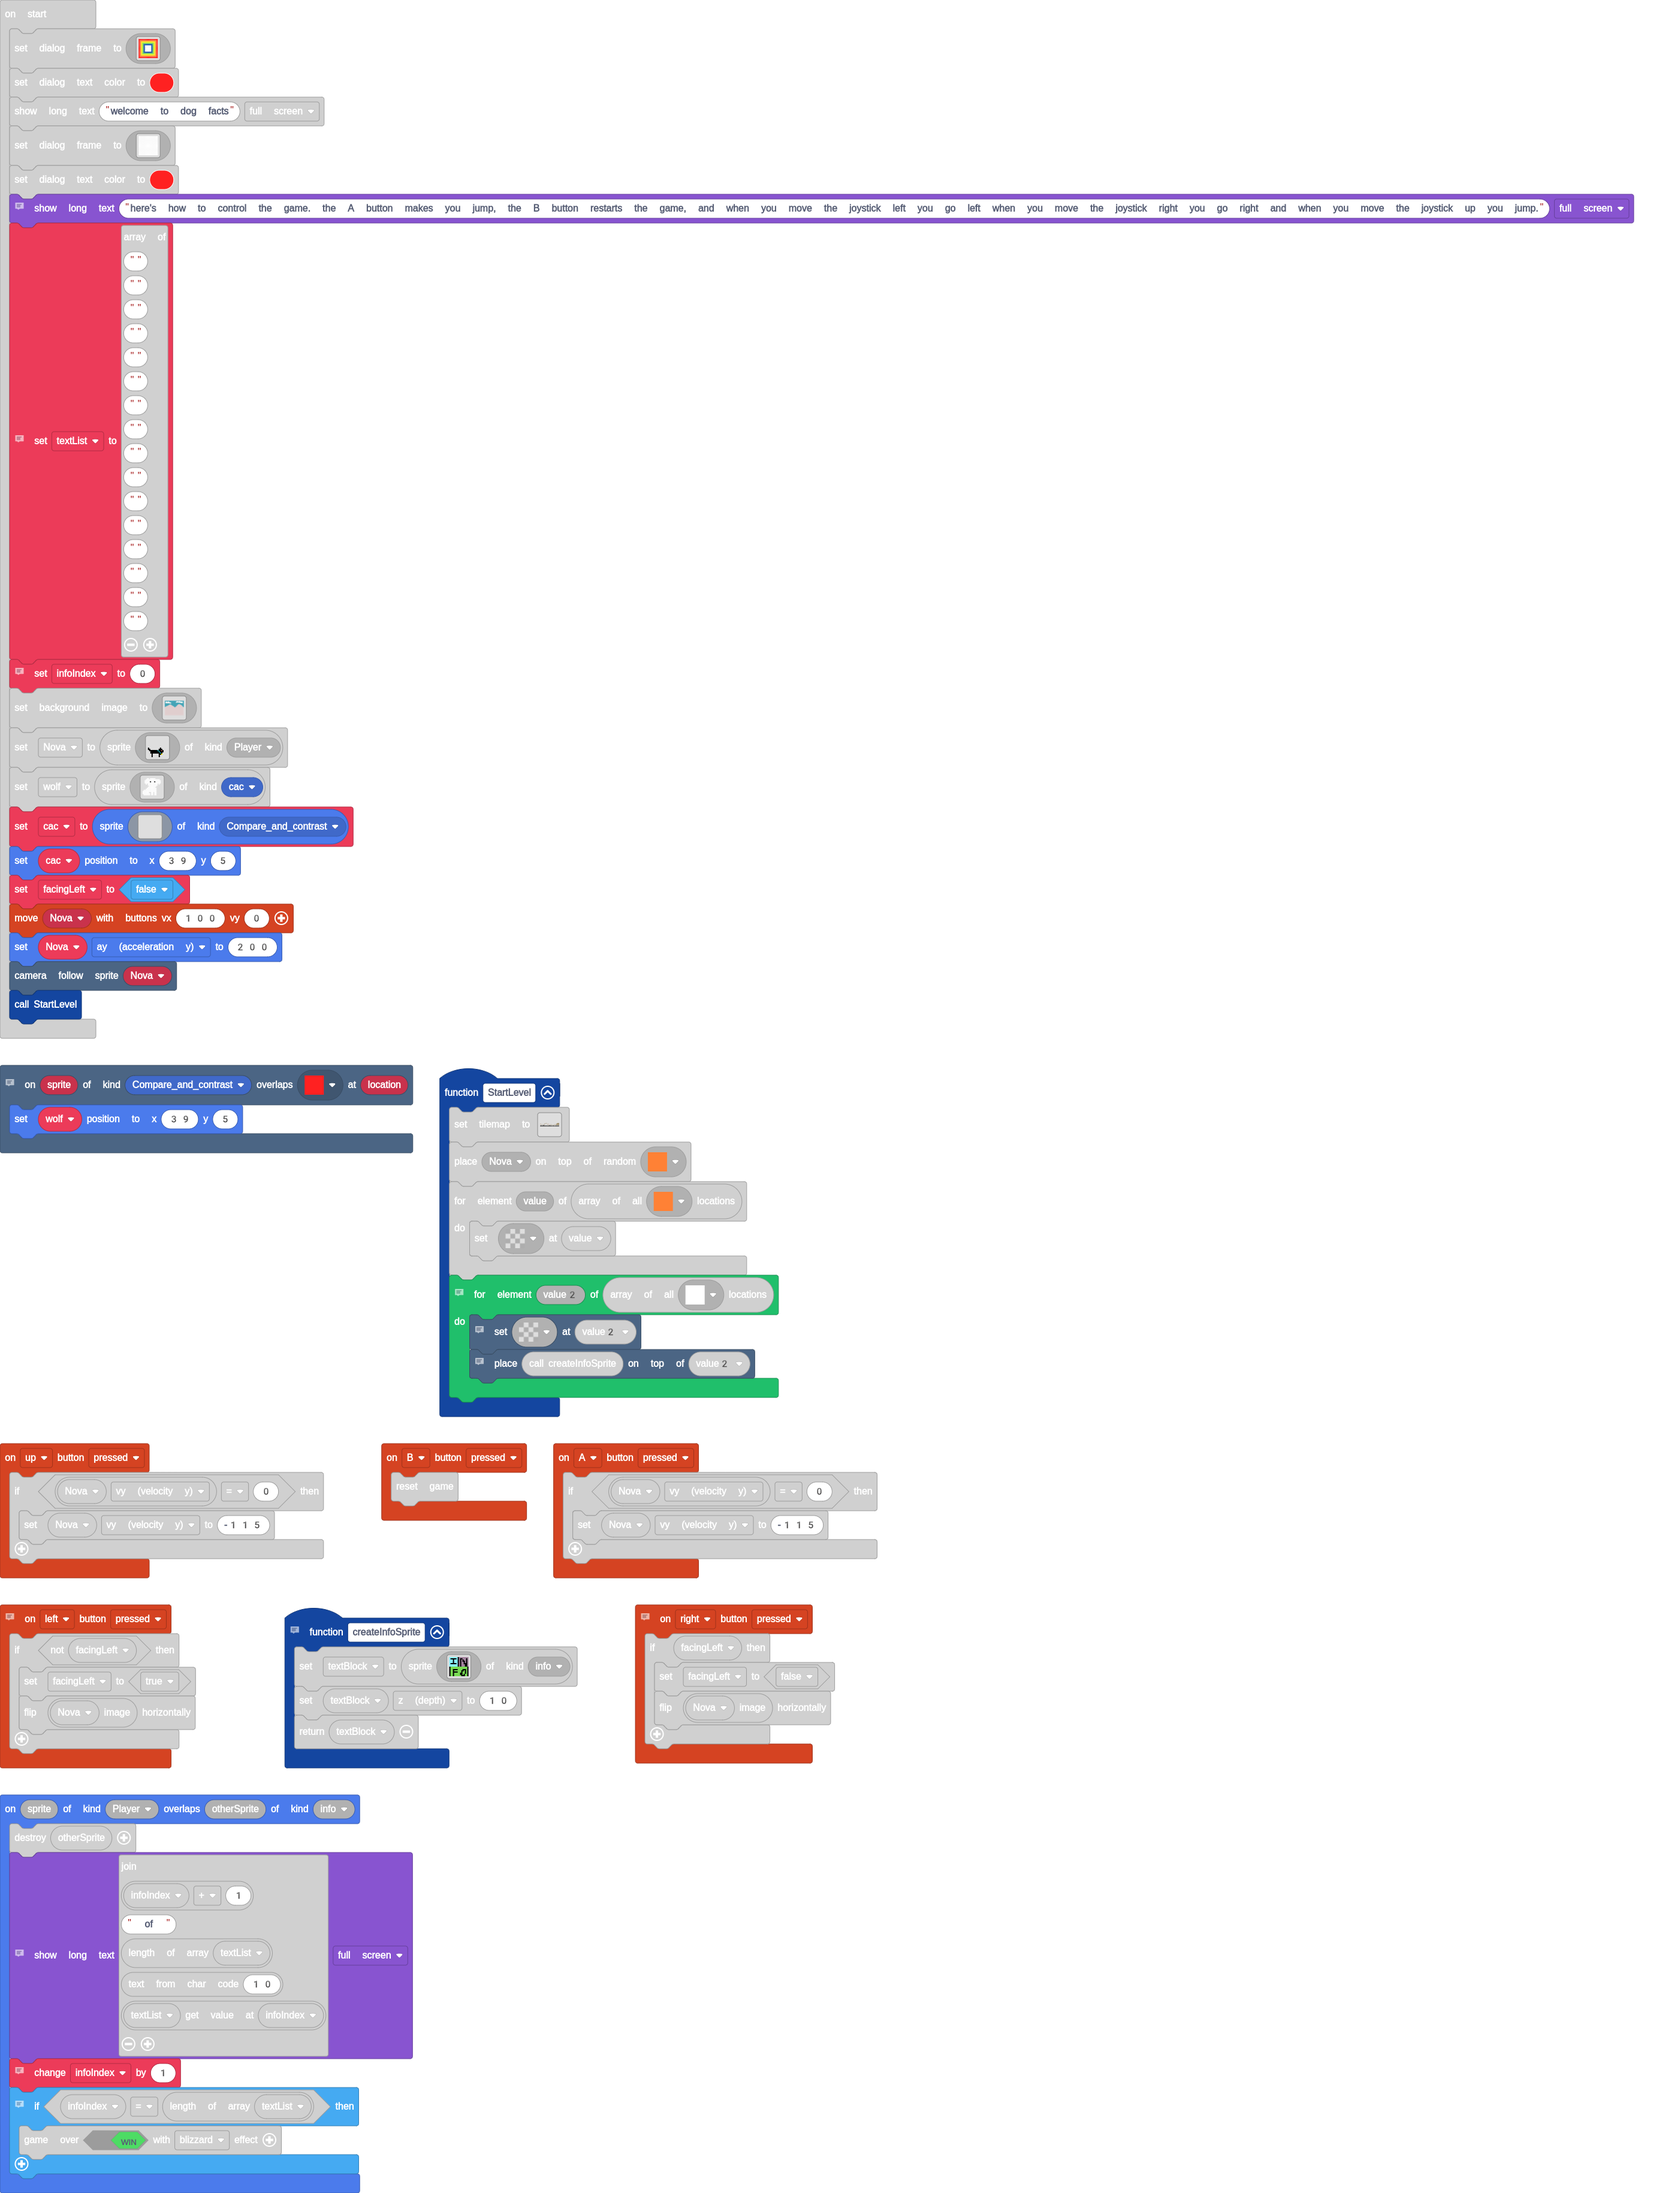
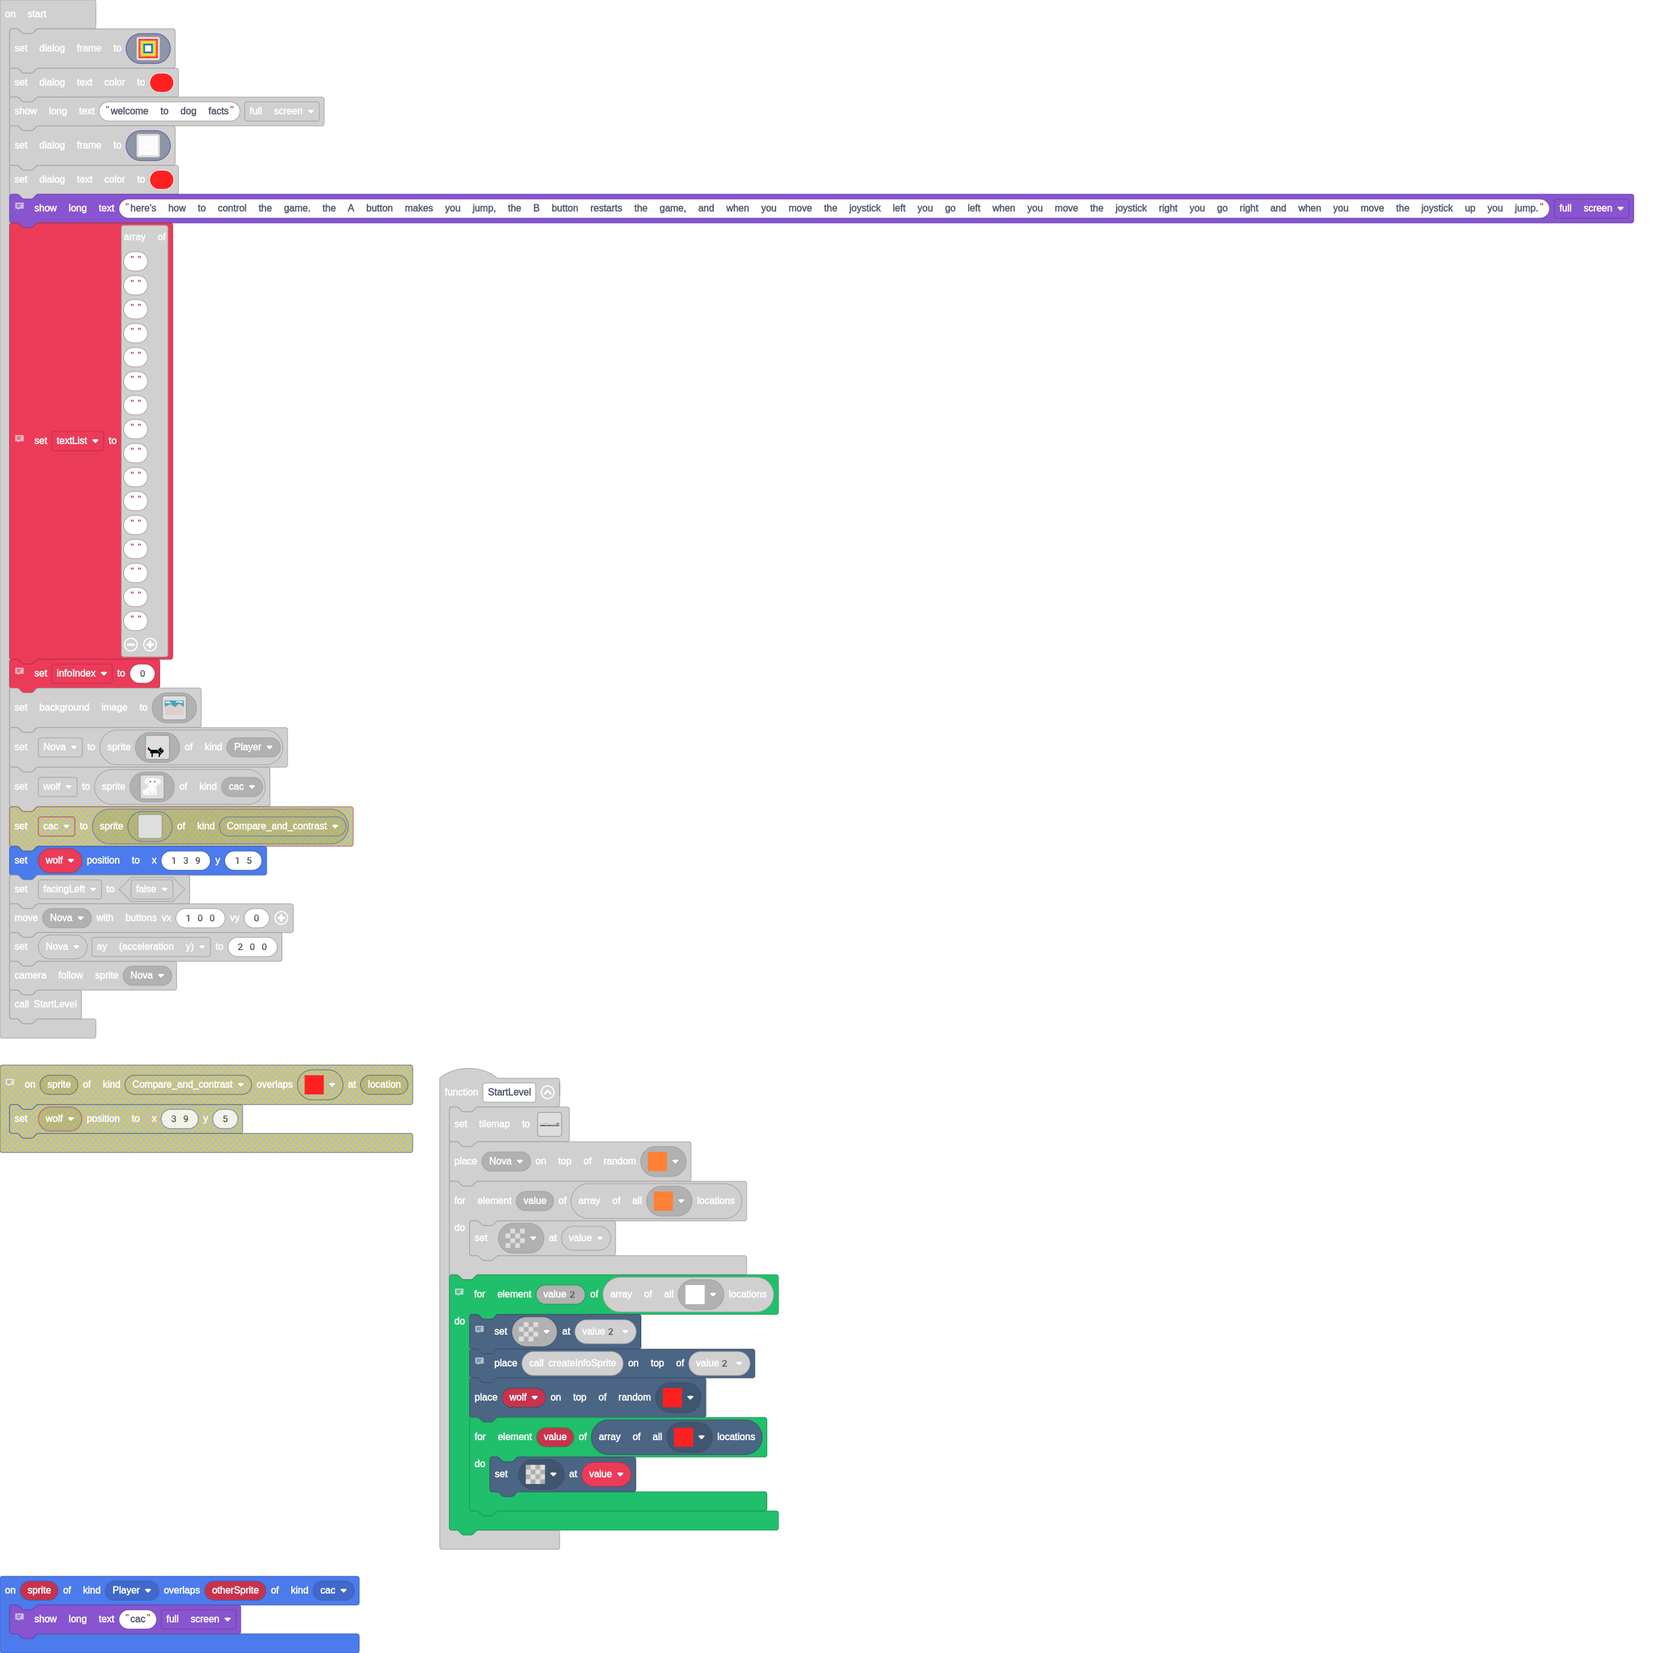
Update pxt.json, main.blocks, main.ts, images.g.jres, images.g.ts

Changed region(s): [[0.0, 0.0, 0.9906, 0.9978]]

diff --git a/images.g.ts b/images.g.ts
@@ -145,6 +145,44 @@ f 7 7 f 7 7 7 7 7 f f 7 7 f 7 f
 f 7 7 f 7 7 7 7 7 f f 7 f 7 7 f 
 f 7 7 f 7 7 7 7 7 7 f f f 7 7 f 
 `;
+            case "image4":
+            case "Nova":return img`
+. . . . . . . . . . . . . . . . 
+. . . . . . . . . . . . . . . . 
+. . . . . . . . . . . . . . . . 
+. . . . . . . . . . . . . . . . 
+. . . . . . . . . . . . . . . . 
+. . . . . . . . . . . . . . . . 
+. . . . . . . . . . . . . . . . 
+. . . . . . . . . . . . . . . . 
+f . . . . . . . . . f . . . . . 
+f f . . . . . . . f f f . . . . 
+. f f f f f f f 6 f f e f . . . 
+. . f f f f f f f 6 f f f . . . 
+. . f f f f f f f f 6 f . . . . 
+. . . f . . . . . f f 5 . . . . 
+. . . f . . . . . f . . . . . . 
+. . . f . . . . . f . . . . . . 
+`;
+            case "image5":
+            case "wolf":return img`
+. . . . 1 1 . 1 1 1 1 1 . . . . . . 
+. . . 1 1 1 1 1 1 1 1 1 1 1 1 1 . . 
+. . 1 1 1 1 1 1 1 1 1 1 1 1 1 1 1 . 
+. . 1 1 1 1 1 f 1 1 1 f 1 1 1 1 1 . 
+. . 1 1 1 1 1 1 1 1 1 1 1 1 1 1 1 . 
+. . . 1 . 1 1 1 1 1 1 1 1 1 . 1 . . 
+. . . . . 1 1 1 1 1 1 1 1 1 . . . . 
+. . . . . . 1 1 1 1 1 1 1 . . . . . 
+. . . . . 1 1 1 1 1 1 1 . . . . . . 
+. . . . 1 1 1 1 1 1 1 1 1 . . . . . 
+. . . 1 1 1 1 1 1 1 1 1 1 . . . . . 
+. 1 1 1 1 1 1 1 1 1 1 1 1 . . . . . 
+1 1 1 1 1 1 1 1 1 1 1 1 1 . . . . . 
+1 1 1 1 1 1 . . 1 1 . 1 1 . . . . . 
+1 1 1 1 1 1 1 . 1 1 . 1 1 . . . . . 
+. 1 1 1 1 1 1 . 1 1 . 1 1 . . . . . 
+`;
             case "image2":return img`
 2 2 2 2 2 2 2 2 2 2 2 2 2 2 2 
 2 4 4 4 4 4 4 4 4 4 4 4 4 4 2 
@@ -179,24 +217,39 @@ f 7 7 f 7 7 7 7 7 7 f f f 7 7 f
 1 1 1 1 1 1 1 1 1 1 1 1 1 1 1 
 1 1 1 1 1 1 1 1 1 1 1 1 1 1 1 
 `;
-            case "image4":
-            case "Nova":return img`
-. . . . . . . . . . . . . . . . 
-. . . . . . . . . . . . . . . . 
-. . . . . . . . . . . . . . . . 
-. . . . . . . . . . . . . . . . 
-. . . . . . . . . . . . . . . . 
-. . . . . . . . . . . . . . . . 
-. . . . . . . . . . . . . . . . 
-. . . . . . . . . . . . . . . . 
-f . . . . . . . . . f . . . . . 
-f f . . . . . . . f f f . . . . 
-. f f f f f f f 6 f f e f . . . 
-. . f f f f f f f 6 f f f . . . 
-. . f f f f f f f f 6 f . . . . 
-. . . f . . . . . f f 5 . . . . 
-. . . f . . . . . f . . . . . . 
-. . . f . . . . . f . . . . . . 
+            case "image6":return img`
+2 2 2 2 2 2 2 2 2 2 2 2 2 2 2 
+2 4 4 4 4 4 4 4 4 4 4 4 4 4 2 
+2 4 5 5 5 5 5 5 5 5 5 5 5 4 2 
+2 4 5 7 7 7 7 7 7 7 7 7 5 4 2 
+2 4 5 7 8 8 8 8 8 8 8 7 5 4 2 
+2 4 5 7 8 1 1 1 1 1 8 7 5 4 2 
+2 4 5 7 8 1 1 1 1 1 8 7 5 4 2 
+2 4 5 7 8 1 1 1 1 1 8 7 5 4 2 
+2 4 5 7 8 1 1 1 1 1 8 7 5 4 2 
+2 4 5 7 8 1 1 1 1 1 8 7 5 4 2 
+2 4 5 7 8 8 8 8 8 8 8 7 5 4 2 
+2 4 5 7 7 7 7 7 7 7 7 7 5 4 2 
+2 4 5 5 5 5 5 5 5 5 5 5 5 4 2 
+2 4 4 4 4 4 4 4 4 4 4 4 4 4 2 
+2 2 2 2 2 2 2 2 2 2 2 2 2 2 2 
+`;
+            case "image9":return img`
+1 1 1 1 1 1 1 1 1 1 1 1 1 1 1 
+1 1 1 1 1 1 1 1 1 1 1 1 1 1 1 
+1 1 1 1 1 1 1 1 1 1 1 1 1 1 1 
+1 1 1 1 1 1 1 1 1 1 1 1 1 1 1 
+1 1 1 1 1 1 1 1 1 1 1 1 1 1 1 
+1 1 1 1 1 1 1 1 1 1 1 1 1 1 1 
+1 1 1 1 1 1 1 1 1 1 1 1 1 1 1 
+1 1 1 1 1 1 1 1 1 1 1 1 1 1 1 
+1 1 1 1 1 1 1 1 1 1 1 1 1 1 1 
+1 1 1 1 1 1 1 1 1 1 1 1 1 1 1 
+1 1 1 1 1 1 1 1 1 1 1 1 1 1 1 
+1 1 1 1 1 1 1 1 1 1 1 1 1 1 1 
+1 1 1 1 1 1 1 1 1 1 1 1 1 1 1 
+1 1 1 1 1 1 1 1 1 1 1 1 1 1 1 
+1 1 1 1 1 1 1 1 1 1 1 1 1 1 1 
 `;
             case "image8":return img`
 . . . . . . . . . . . . . . . . 
@@ -216,24 +269,23 @@ f f . . . . . . . f f f . . . .
 . . . . . . . . . . . . . . . . 
 . . . . . . . . . . . . . . . . 
 `;
-            case "image5":
-            case "wolf":return img`
-. . . . 1 1 . 1 1 1 1 1 . . . . . . 
-. . . 1 1 1 1 1 1 1 1 1 1 1 1 1 . . 
-. . 1 1 1 1 1 1 1 1 1 1 1 1 1 1 1 . 
-. . 1 1 1 1 1 f 1 1 1 f 1 1 1 1 1 . 
-. . 1 1 1 1 1 1 1 1 1 1 1 1 1 1 1 . 
-. . . 1 . 1 1 1 1 1 1 1 1 1 . 1 . . 
-. . . . . 1 1 1 1 1 1 1 1 1 . . . . 
-. . . . . . 1 1 1 1 1 1 1 . . . . . 
-. . . . . 1 1 1 1 1 1 1 . . . . . . 
-. . . . 1 1 1 1 1 1 1 1 1 . . . . . 
-. . . 1 1 1 1 1 1 1 1 1 1 . . . . . 
-. 1 1 1 1 1 1 1 1 1 1 1 1 . . . . . 
-1 1 1 1 1 1 1 1 1 1 1 1 1 . . . . . 
-1 1 1 1 1 1 . . 1 1 . 1 1 . . . . . 
-1 1 1 1 1 1 1 . 1 1 . 1 1 . . . . . 
-. 1 1 1 1 1 1 . 1 1 . 1 1 . . . . . 
+            case "image10":return img`
+. . . . . . . . . . . . . . . . 
+. . . . . . . . . . . . . . . . 
+. . . . . . . . . . . . . . . . 
+. . . . . . . . . . . . . . . . 
+. . . . . . . . . . . . . . . . 
+. . . . . . . . . . . . . . . . 
+. . . . . . . . . . . . . . . . 
+. . . . . . . . . . . . . . . . 
+. . . . . . . . . . . . . . . . 
+. . . . . . . . . . . . . . . . 
+. . . . . . . . . . . . . . . . 
+. . . . . . . . . . . . . . . . 
+. . . . . . . . . . . . . . . . 
+. . . . . . . . . . . . . . . . 
+. . . . . . . . . . . . . . . . 
+. . . . . . . . . . . . . . . . 
 `;
         }
         return null;

diff --git a/main.ts b/main.ts
@@ -23,8 +23,16 @@ function StartLevel () {
         tiles.setTileAt(value2, assets.tile`transparency16`)
         // Create a sprite at this location on the map.
         tiles.placeOnTile(createInfoSprite(), value2)
+        tiles.placeOnRandomTile(wolf, assets.tile`myTile0`)
+        for (let value of tiles.getTilesByType(assets.tile`myTile0`)) {
+            tiles.setTileAt(value, assets.tile`transparency16`)
+        }
     }
 }
+sprites.onOverlap(SpriteKind.Player, SpriteKind.cac, function (sprite, otherSprite) {
+    // Show instructions on how to play the game.
+    game.showLongText("cac", DialogLayout.Full)
+})
 controller.B.onEvent(ControllerButtonEvent.Pressed, function () {
     game.reset()
 })
@@ -56,10 +64,6 @@ controller.right.onEvent(ControllerButtonEvent.Pressed, function () {
 // If the player falls onto the black bar at the bottom of the tile map then reset their position to the beginning of the map.  This does not reset the level, only the player's position.
 scene.onOverlapTile(SpriteKind.Player, assets.tile`tile2`, function (sprite, location) {
     Nova.setPosition(9, 5)
-})
-// If the player falls onto the black bar at the bottom of the tile map then reset their position to the beginning of the map.  This does not reset the level, only the player's position.
-scene.onOverlapTile(SpriteKind.Compare_and_contrast, assets.tile`myTile0`, function (sprite, location) {
-    wolf.setPosition(39, 5)
 })
 sprites.onOverlap(SpriteKind.Player, SpriteKind.info, function (sprite, otherSprite) {
     otherSprite.destroy()
@@ -143,25 +147,7 @@ infoIndex = 0
 scene.setBackgroundImage(assets.image`background image`)
 Nova = sprites.create(assets.image`Nova`, SpriteKind.Player)
 wolf = sprites.create(assets.image`wolf`, SpriteKind.cac)
-let cac = sprites.create(img`
-    . . . . . . . . . . . . . . . . 
-    . . . . . . . . . . . . . . . . 
-    . . . . . . . . . . . . . . . . 
-    . . . . . . . . . . . . . . . . 
-    . . . . . . . . . . . . . . . . 
-    . . . . . . . . . . . . . . . . 
-    . . . . . . . . . . . . . . . . 
-    . . . . . . . . . . . . . . . . 
-    . . . . . . . . . . . . . . . . 
-    . . . . . . . . . . . . . . . . 
-    . . . . . . . . . . . . . . . . 
-    . . . . . . . . . . . . . . . . 
-    . . . . . . . . . . . . . . . . 
-    . . . . . . . . . . . . . . . . 
-    . . . . . . . . . . . . . . . . 
-    . . . . . . . . . . . . . . . . 
-    `, SpriteKind.Compare_and_contrast)
-cac.setPosition(39, 5)
+wolf.setPosition(139, 15)
 facingLeft = false
 controller.moveSprite(Nova, 100, 0)
 Nova.ay = 200
